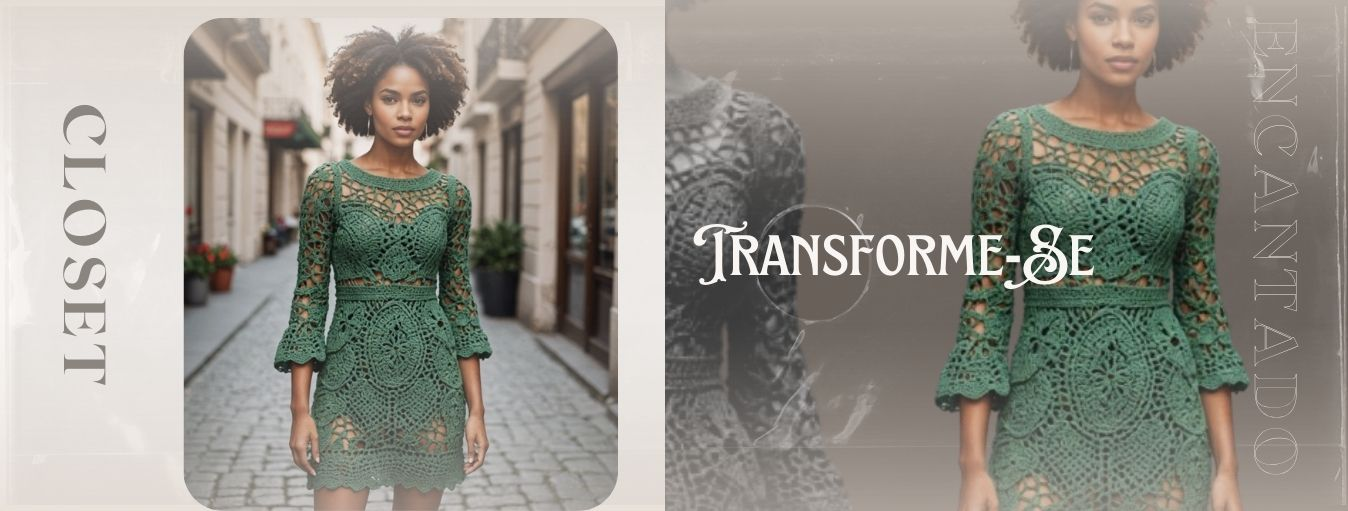
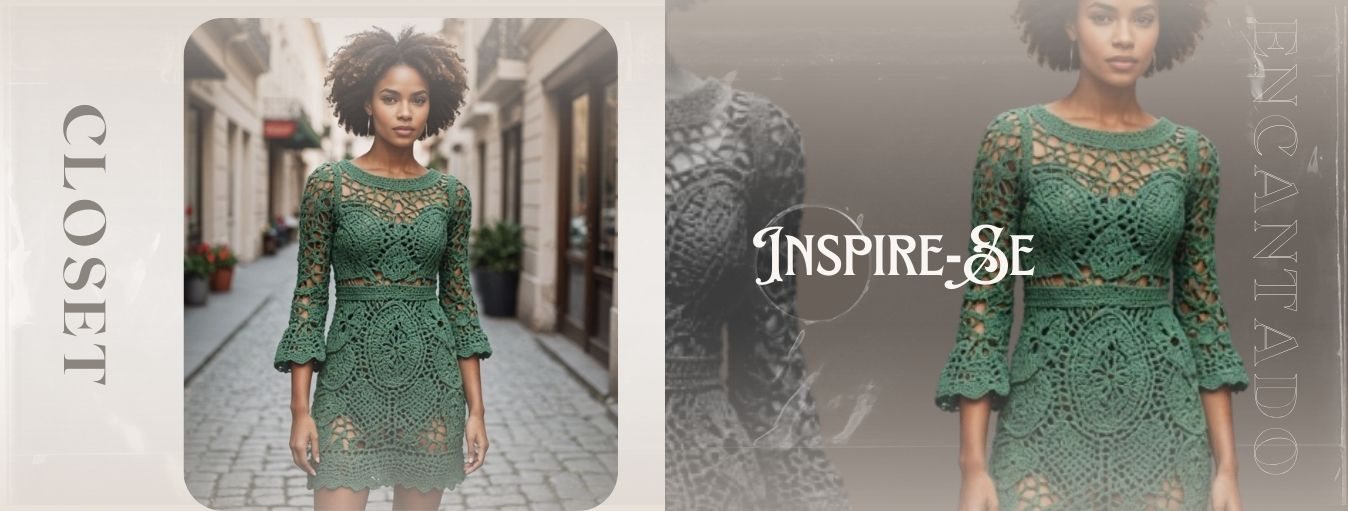
Alterando header

Changed region(s): [[0.4985, 0.4403, 0.8101, 0.5577]]

diff --git a/index.html b/index.html
@@ -24,6 +24,13 @@
             <img class="logo_image" src="./images/logo_completa.png" alt="">
         </div>
 
+        <div class="principal__text">
+            <h1 class="text selecionado"> A Cada Dia  Encante - SE</h1>
+            <h1 class="text"> A Cada Dia Inspire - SE</h1>
+            <h1 class="text"> A Cada Dia  Renove - SE</h1>
+            <h1 class="text"> A Cada Dia  Admire - SE</h1>
+        </div>
+
         <ul class="navigation">
             <a class="underline-effect" href="">Produtos</a>
             <a class="underline-effect" href="">Sobre nós</a>
@@ -34,13 +41,6 @@
 
         </div>
     </header>
-
-    <section class="principal__text">
-        <h1 class="text selecionado"> A cada dia encante - <span class="destaque1">SE</span></h1>
-        <h1 class="text"> A cada dia transforme - <span class="destaque2">SE</span></h1>
-        <h1 class="text"> A cada dia renove - <span class="destaque3">SE</span></h1>
-        <h1 class="text"> A cada dia admire - <span class="destaque4">SE</span></h1>
-    </section>
     
     <section id="banners">
         <img  class="banner selecionado" src="./images/1.jpg">

diff --git a/css/style.css b/css/style.css
@@ -18,7 +18,8 @@ header {
     margin-top: -2rem;
     height: 13rem;
     display: flex;
-    justify-content: space-around;
+    gap: 7rem;
+    justify-content: space-evenly;
     align-items: center;
 }
 
@@ -65,7 +66,7 @@ header {
     width: 100%;
 }
 #banners {
-    max-height: 43.4rem;
+    max-height: 48.9rem;
     overflow: hidden;
 }
 .banner {
@@ -80,26 +81,14 @@ header {
 
 .principal__text {
     display: flex;
+    min-width: 3.85rem;
     justify-content: center;
     align-items: center;
-
 }
 .text {
-    font-size: 4rem;
+    font-size: 2.5rem;
     display: none;
 }
 .text.selecionado {
     display: inline-block;
-}
-.destaque1{
-    color: #C6B7AA;
-}
-.destaque2{
-    color: #3C5547;
-}
-.destaque3{
-    color: #6E8186;
-}
-.destaque4{
-    color: #C6B7AA;
 }

diff --git a/script.js b/script.js
@@ -22,4 +22,4 @@ function alternarBanner() {
 }
 
 // Alternar a cada 6 segundos
-setInterval(alternarBanner, 6000);
+setInterval(alternarBanner, 7000);
